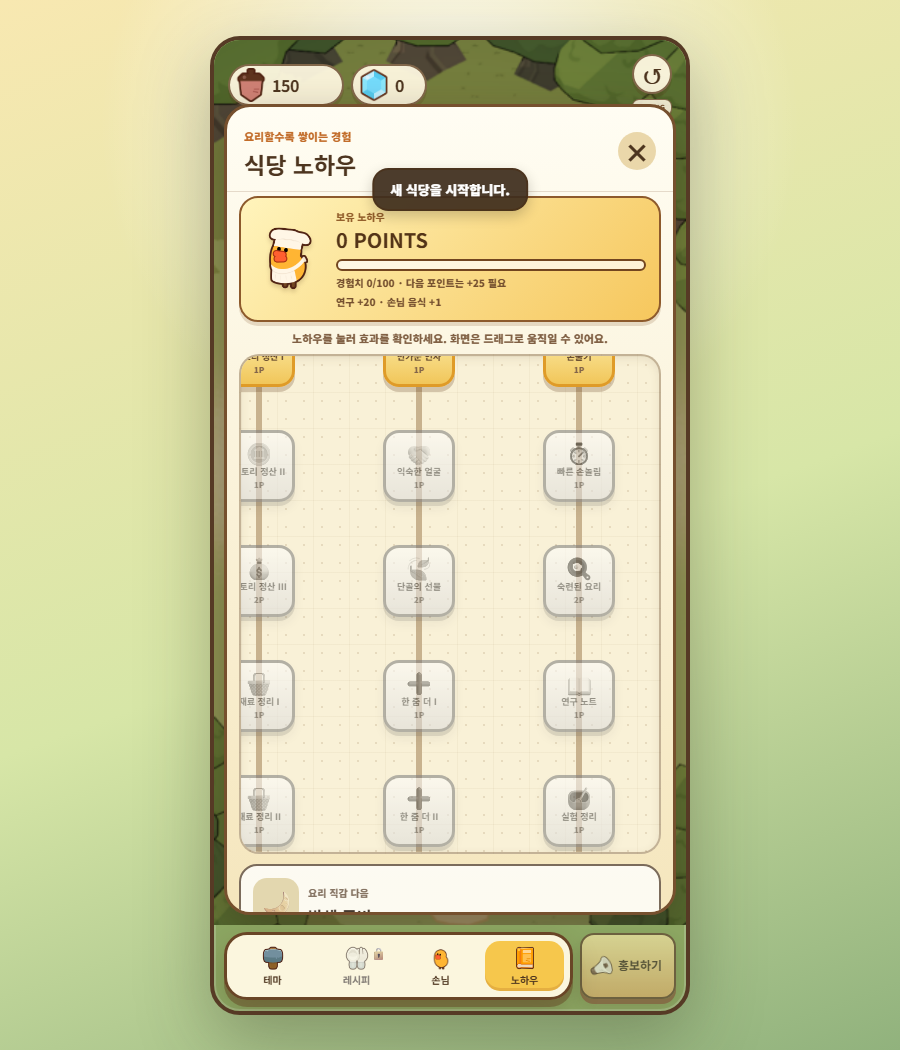
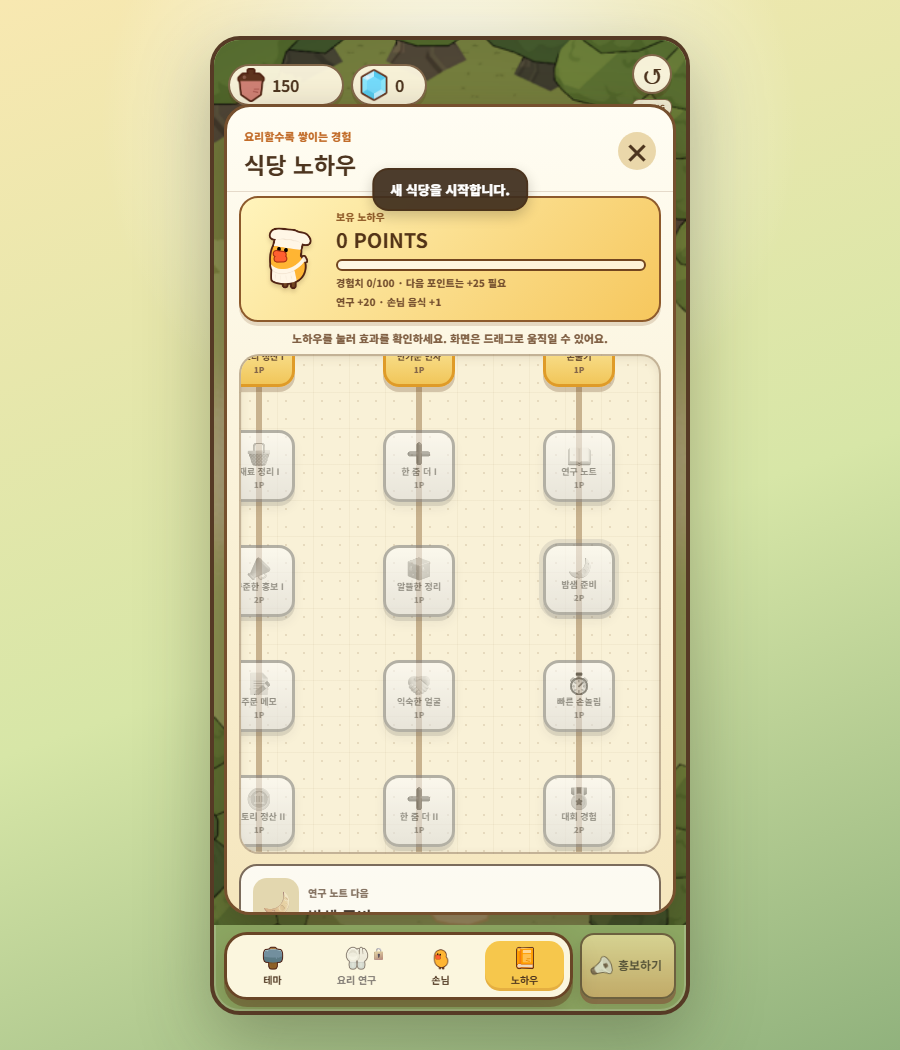
노하우 순서 변경

diff --git a/game.js b/game.js
@@ -171,7 +171,7 @@ const KNOWHOW_XP_BASE = 100;
 const KNOWHOW_XP_GROWTH = 25;
 const KNOWHOW_RESEARCH_XP = 20;
 const KNOWHOW_SERVICE_XP = 1;
-const KNOWHOW_SKILLS = Object.freeze([
+const KNOWHOW_SKILL_DEFINITIONS = Object.freeze([
   { id: "restaurant_basics", name: "식당 노하우", icon: "📒", maxLevel: 1, costs: [], x: 240, y: 52, prerequisites: [], effect: () => "요리하며 식당 운영 경험을 쌓아요" },
 
   { id: "auto_collect_1", name: "도토리 정산 I", icon: "🪙", maxLevel: 1, costs: [1], x: 80, y: 170, prerequisites: [{ id: "restaurant_basics", level: 1 }], effect: () => "30초마다 테이블 도토리 1개 자동 회수" },
@@ -224,6 +224,37 @@ const KNOWHOW_SKILLS = Object.freeze([
   { id: "buffet_income_1", name: "진열 감각", icon: "🍽", maxLevel: 1, costs: [2], x: 400, y: 1320, prerequisites: [{ id: "contest_prize_2", level: 1 }], effect: () => "야외 뷔페 분당 수익 +10%" },
   { id: "buffet_income_2", name: "인기 진열", icon: "🥂", maxLevel: 1, costs: [2], x: 400, y: 1435, prerequisites: [{ id: "buffet_income_1", level: 1 }], effect: () => "야외 뷔페 분당 수익 추가 +10%" },
 ]);
+const KNOWHOW_BALANCED_BRANCHES = Object.freeze([
+  Object.freeze([
+    "auto_collect_1", "auto_collect_2", "auto_promotion_1", "auto_order_1",
+    "auto_payment_2", "auto_ingredient_2", "auto_calm_1", "auto_promotion_2",
+    "auto_order_2", "auto_payment_3", "auto_ingredient_3", "auto_calm_2",
+    "auto_promotion_3", "auto_order_3", "auto_calm_3", "auto_collect_3",
+    "auto_buffet_2", "auto_buffet_3",
+  ]),
+  Object.freeze([
+    "drop_bonus_1", "double_drop_1", "storage_bonus_1", "drop_bonus_2",
+    "double_drop_2", "merchant_discount_1", "drop_bonus_3", "double_drop_3",
+    "storage_bonus_2", "double_drop_4", "merchant_discount_2", "double_drop_5",
+    "double_drop_6", "double_drop_7", "double_drop_8", "double_drop_9", "double_drop_10",
+  ]),
+  Object.freeze([
+    "cooking_speed_1", "research_speed_1", "offline_bonus_1", "cooking_speed_2",
+    "contest_prize_1", "research_speed_2", "buffet_income_1", "cooking_speed_3",
+    "offline_bonus_2", "research_speed_3", "contest_prize_2", "buffet_income_2",
+  ]),
+]);
+const KNOWHOW_BALANCED_LAYOUT = new Map(KNOWHOW_BALANCED_BRANCHES.flatMap((branch) => branch.map((id, index) => [
+  id,
+  {
+    y: 170 + index * 115,
+    prerequisites: [{ id: index === 0 ? "restaurant_basics" : branch[index - 1], level: 1 }],
+  },
+])));
+const KNOWHOW_SKILLS = Object.freeze(KNOWHOW_SKILL_DEFINITIONS.map((skill) => Object.freeze({
+  ...skill,
+  ...(KNOWHOW_BALANCED_LAYOUT.get(skill.id) || {}),
+})));
 const CONTEST_JUDGE_PREFERENCES = Object.freeze({
   fresh: { name: "새싹 심사위원", icon: "🥬", hint: "싱그러운 채소가 좋아요", ingredientKeys: ["leaf", "lettuce", "tomato", "mixedVeg", "carrot", "cabbage", "cucumber", "broccoli", "avocado"] },
   rich: { name: "고소미 심사위원", icon: "🧀", hint: "고소하고 부드러운 맛!", ingredientKeys: ["cheese", "egg", "butter", "milk", "cream", "seed", "tofu", "corn"] },
@@ -4950,6 +4981,8 @@ function renderGameToText() {
       xpRewards: { recipeResearchSuccessOrFailure: KNOWHOW_RESEARCH_XP, guestMealCooking: KNOWHOW_SERVICE_XP },
       selectedSkillId: state.knowhow.selectedSkillId,
       graphPresentation: "connected-mind-map",
+      progressionPattern: "balanced-interleaved-categories",
+      branchSequences: KNOWHOW_BALANCED_BRANCHES.map((branch) => [...branch]),
       effects: {
         ingredientDropChance: currentIngredientDropChance(),
         bonusIngredientChance: knowhowBonusIngredientChance(),

diff --git a/progress.md b/progress.md
@@ -1894,3 +1894,11 @@ Original prompt: 핵심 플레이 연구 파일에 있는 게임을 리소스만
 - 요리 카드에서 `Lv.현재/최대`와 `최대 레벨` 상태를 제거하고 `Lv.현재`만 표시한다. 재료가 충분하면 레벨과 관계없이 항상 `레벨업` 버튼이 활성화된다.
 - 과거 상한이었던 Lv.20 상태도 자동 연구 후보에 포함되고, 수동 레벨업으로 Lv.21 이상 성장하며 기존 가격 +10% 규칙과 연출을 그대로 사용한다.
 - 검증: `MANUAL_DISH_UPGRADE_OK unlimited=yes ... level=20->21 ingredients=2->0 price=116->120`, `RECIPE_RESEARCH_WEIRD_DISH_OK` 통과 및 공식 웹게임 클라이언트 콘솔 오류 없음 확인. 화면: `output/manual-dish-upgrade/`.
+
+## 2026-08-12 노하우 교차 성장 구조
+
+- 한 효과의 I·II·III를 연속으로 끝내야 다음 종류를 배울 수 있던 선행 조건을 제거하고, 세 갈래 모두 서로 다른 효과가 번갈아 등장하도록 순서와 마인드맵 좌표를 재배치했다.
+- 자동 운영은 `도토리 정산 I → 재료 정리 I → 홍보 I → 주문 I → 정산 II…`, 재료 수급은 `드랍 확률 → 추가 드랍 → 보관함 → 드랍 확률…`, 요리 성장은 `조리 → 연구 → 오프라인 → 조리 → 대회…` 순으로 진행된다.
+- 기존 노하우 ID, 포인트 비용, 효과 수치와 저장 데이터는 유지한다. 이미 습득한 노하우도 회수되거나 초기화되지 않는다.
+- `render_game_to_text`에 `progressionPattern`과 세 갈래의 실제 순서를 추가해 선행 조건을 자동 검증할 수 있게 했다.
+- 검증: `BALANCED_KNOWHOW_OK branches=3 automation=payment>ingredient>promotion>order growth=cooking>research>offline`, `RESTAURANT_KNOWHOW_OK ... nodes=48 ...` 통과. 공식 웹게임 클라이언트 실행 및 콘솔 오류 없음 확인. 화면: `output/balanced-knowhow-progression/`.
